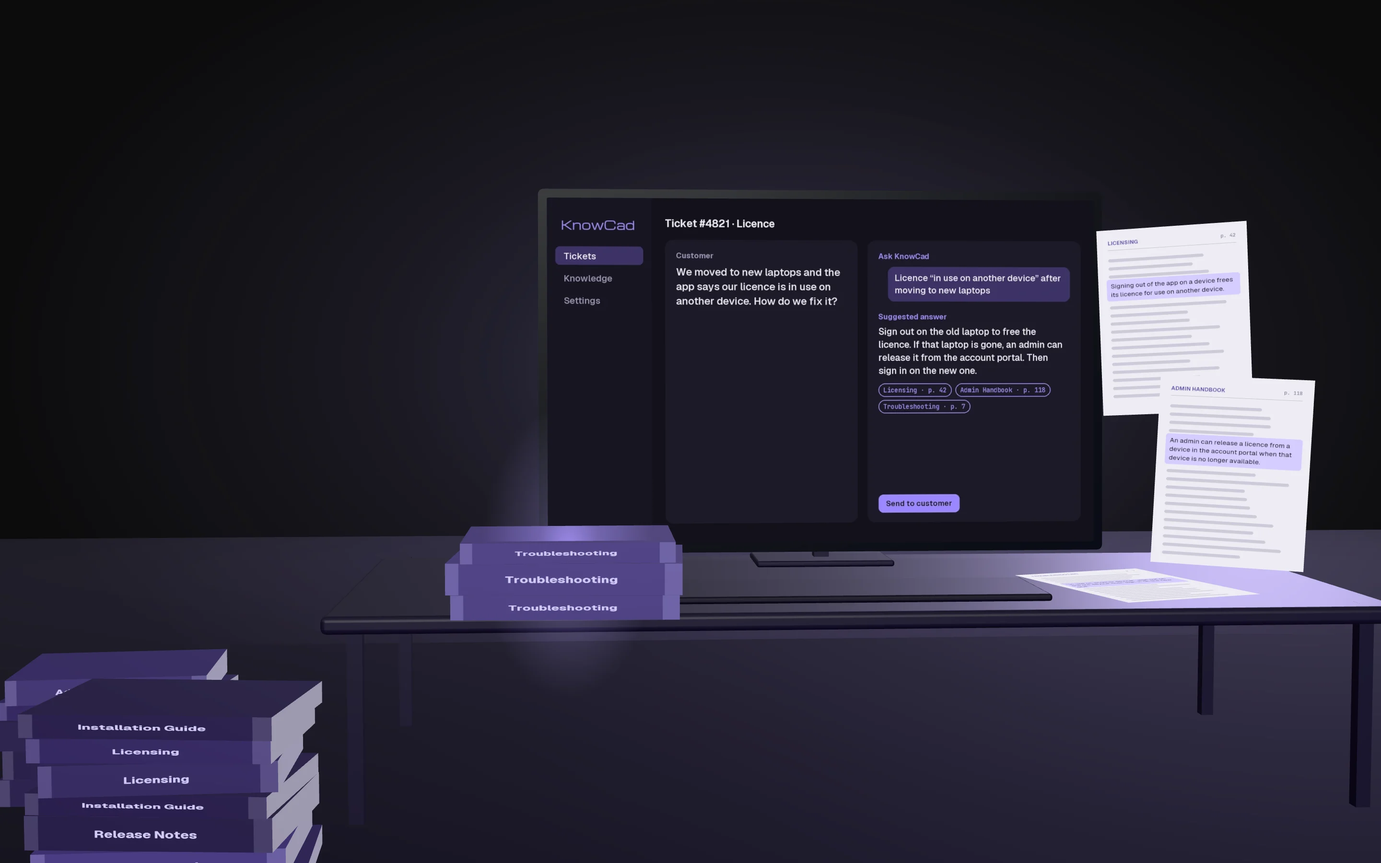
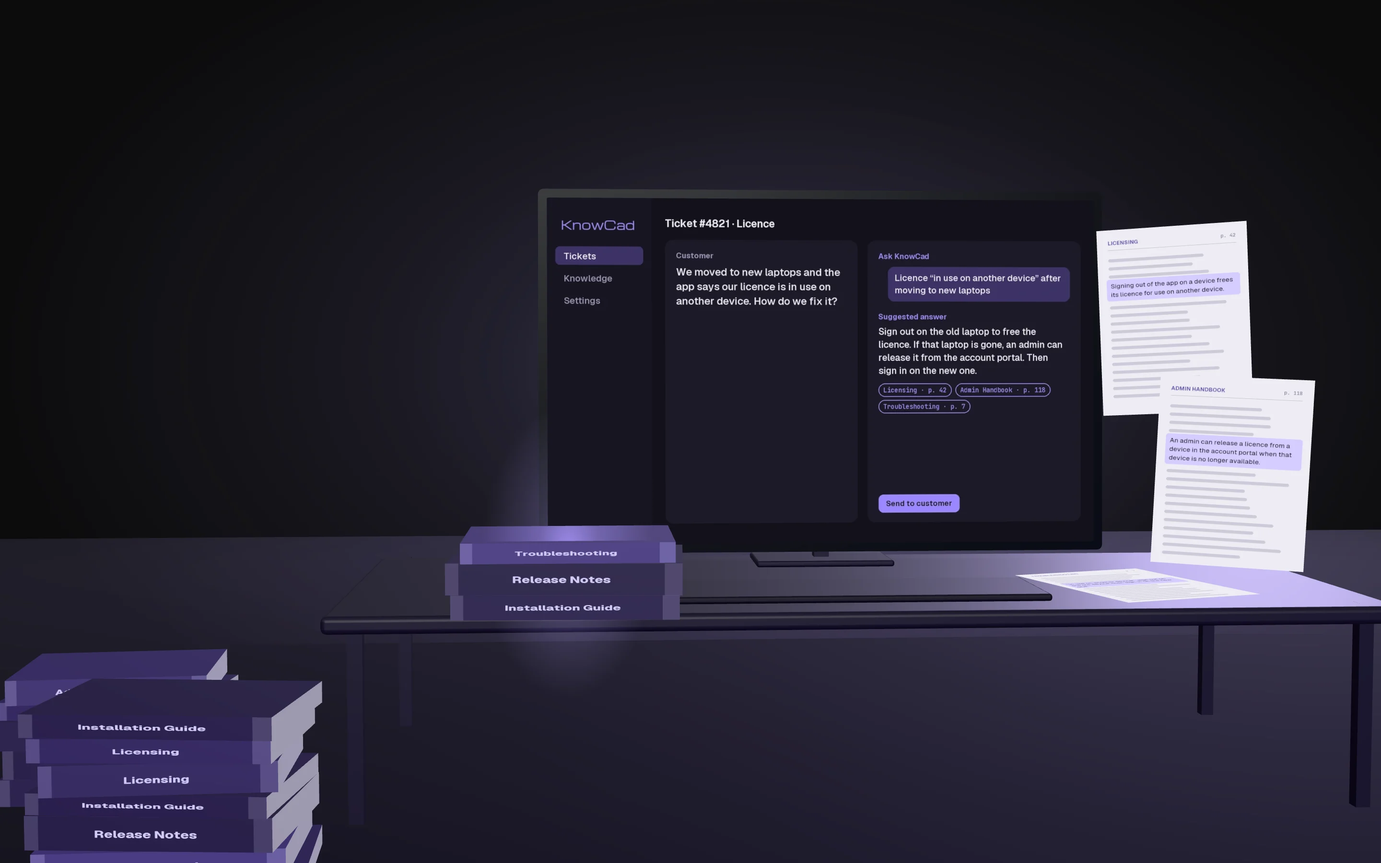
The small 3D leftovers: all six challenge cards on a phone, a card played mid-flight keeps flying, KnowCad's phone pages stay clear of the camera, the newspaper glide ends with the whole page on screen
- Boss Breaker: a phone shows all six challenge cards, held above the health bar where the words' shade does not cover them; each played card keeps its own flight, so rapid Attacks never snap one back
- KnowCad: on a phone the loose pages stay between the shelves and go once the camera is deep in the aisle (it backs out past them for its long view of the desk); the desk stack has no second Troubleshooting; a hidden source page no longer catches a tap
- MEANT: the glide into the newspaper stops where the whole page just fills the screen, for any screen shape (it was a fixed distance: much too close on a phone)
- fewer objects made every frame in the rooms; the Boss Breaker and KnowCad stills re-rendered

Changed region(s): [[0.3125, 0.6222, 0.5, 0.7467]]

diff --git a/js/3d/chapters/boss-breaker.js b/js/3d/chapters/boss-breaker.js
@@ -23,7 +23,7 @@ const DISPLAY_H = (DISPLAY.w * (DISPLAY_CROP[3] - DISPLAY_CROP[1])) / (DISPLAY_C
 
 export async function mount({ world, stage, section, origin, form }) {
   const desk = form === 'desk';
-  const nCards = desk ? 6 : 3;
+  const nCards = 6;
   const names = ['bx-display', 'bx-phone', 'bx-dragon', ...(desk ? ['bx-leaderboard'] : []), ...Array.from({ length: nCards }, (_, i) => `bx-card-${i + 1}`)];
   const tex = Object.fromEntries(await Promise.all(names.map(async (n) => [n, await loadTexture(`assets/3d/${n}.webp`)])));
 
@@ -79,18 +79,25 @@ export async function mount({ world, stage, section, origin, form }) {
   await nextFrame();
   // the hand: the six challenges as cards, held in a loose arc low in front, the next to play on top
   const CARD = { w: 1.05, h: 1.05 * (720 / 512) };
-  const pivot = new THREE.Vector3(desk ? 1.6 : 0.4, FLOOR - 0.3, 1.2);
+  // (on a phone the words and their shade fill the lower half of the screen, so the hand is held up above the
+  // health bar, top right, where the camera shows it clear of them)
+  const pivot = desk ? new THREE.Vector3(1.6, FLOOR - 0.3, 1.2) : new THREE.Vector3(2.6, 7.1, -4);
   let front = 0;
   const cards = Array.from({ length: nCards }, (_, i) => {
     const c = card(CARD.w, CARD.h, tex[`bx-card-${i + 1}`], null, { color: 0x121622 });
     group.add(c);
-    return { c, pos: new THREE.Vector3(), rz: 0, ready: false };
+    // a played card's own flight (t runs 0..1), so a card still in the air keeps flying when the next is played;
+    // r0 is how it was turned when it left, so a card played again mid-flight turns on from there
+    return { c, pos: new THREE.Vector3(), want: new THREE.Vector3(), rz: 0, ready: false, throwT: 1, from: new THREE.Vector3(), r0: [0, 0, 0] };
   });
-  const handAt = (i, open) => {
+  // card i's place in the hand, into `out`; returns its turn
+  const handAt = (i, open, out) => {
     const h = handPose(i, nCards, front, open);
     const r = 2.0;
-    return { pos: new THREE.Vector3(pivot.x - Math.sin(h.a) * r, pivot.y + Math.cos(h.a) * r + h.lift, pivot.z + h.z), rz: h.a };
+    out.set(pivot.x - Math.sin(h.a) * r, pivot.y + Math.cos(h.a) * r + h.lift, pivot.z + h.z);
+    return h.a;
   };
+  const hudAt = new THREE.Vector3();
 
   await nextFrame();
   // the leaderboard on its post, and a bar of each player's damage in front of it
@@ -116,15 +123,16 @@ export async function mount({ world, stage, section, origin, form }) {
     live: section.querySelector('[data-hp-live]'), down: section.querySelector('[data-defeated]'),
   };
   const hpSpring = new Spring(START_HP, { stiffness: 140, damping: 20 });
-  let hits = 0, local = -1, shownHp = -1, throwN = 0, throwT = 1, hitTimer = 0, wasVisible = false, throwFrom = new THREE.Vector3();
+  let hits = 0, local = -1, shownHp = -1, hitTimer = 0, wasVisible = false;
   const fillEnd = () => new THREE.Vector3(fill.position.x + (BAR.len * hpSpring.value) / START_HP, BAR.at[1], BAR.at[2] + 0.3);
   function hit() {
     if (bossHp(local, hits) <= 0) return;
     hits += 1;
-    throwN = front;
-    throwFrom = cards[front].pos.clone();   // where it left the hand
+    const cd = cards[front];
+    cd.from.copy(cd.c.position);            // where it left the hand (or the air)
+    cd.r0 = [cd.c.rotation.x, cd.c.rotation.y, cd.c.rotation.z];
+    cd.throwT = 0;
     front = (front + 1) % nCards;           // the next comes to the front while it flies
-    throwT = 0;
     world.shake(18);
     hud.hit.textContent = '−350';
     clearTimeout(hitTimer);
@@ -167,7 +175,7 @@ export async function mount({ world, stage, section, origin, form }) {
       fill.scale.x = Math.max(0.0001, hpSpring.value / START_HP);
       // the HP readout sits just above the middle of the bar, wherever the camera has it on screen; the pin it
       // lives in is stuck to the top of the screen while the chapter is pinned, and scrolls in and out with it
-      const p = new THREE.Vector3(BAR.at[0], BAR.at[1] + 0.3, BAR.at[2]).add(origin).project(f.camera);
+      const p = hudAt.set(BAR.at[0], BAR.at[1] + 0.3, BAR.at[2]).add(origin).project(f.camera);
       const secTop = -t * f.unit;
       const pinTop = secTop > 0 ? secTop : Math.min(0, secTop + 0.6 * f.unit);
       hud.box.style.transform = `translate(${((p.x + 1) / 2) * innerWidth}px, ${((1 - p.y) / 2) * f.vh - pinTop}px) translate(-50%, -100%)`;
@@ -175,28 +183,29 @@ export async function mount({ world, stage, section, origin, form }) {
       bars.forEach((b) => { b.scale.y = Math.max(0.001, st.bars); });
       // the hand opens with the scroll; the played card flies to the end of the bar and back to the back of the hand,
       // and the others slide to their new places
-      if (throwT < 1) { throwT = Math.min(1, throwT + f.dt / 620); busy = true; }
       const ease = 1 - Math.exp(-f.dt / 90);
       cards.forEach((cd, i) => {
-        const want = handAt(i, st.cards);
-        if (!cd.ready) { cd.pos.copy(want.pos); cd.rz = want.rz; cd.ready = true; }
-        if (cd.pos.distanceToSquared(want.pos) > 1e-7 || Math.abs(cd.rz - want.rz) > 1e-4) {
-          cd.pos.lerp(want.pos, ease);
-          cd.rz += (want.rz - cd.rz) * ease;
+        const wantRz = handAt(i, st.cards, cd.want);
+        if (!cd.ready) { cd.pos.copy(cd.want); cd.rz = wantRz; cd.ready = true; }
+        if (cd.pos.distanceToSquared(cd.want) > 1e-7 || Math.abs(cd.rz - wantRz) > 1e-4) {
+          cd.pos.lerp(cd.want, ease);
+          cd.rz += (wantRz - cd.rz) * ease;
           busy = true;
         }
         cd.c.position.copy(cd.pos);
         cd.c.rotation.set(-0.3, 0, cd.rz);
         cd.c.visible = st.cards > 0.02 || i === front;
-        if (i === throwN && throwT < 1) {
+        if (cd.throwT < 1) {
+          cd.throwT = Math.min(1, cd.throwT + f.dt / 620);
+          busy = true;
           const end = fillEnd();
-          if (throwT < 0.5) {
-            const k = easeInOut(throwT * 2);
-            cd.c.position.copy(bez(throwFrom, throwFrom.clone().lerp(end, 0.5).add(new THREE.Vector3(0, 2.5, 1.5)), end, k));
-            cd.c.rotation.set(-0.3 + k * 0.4, k * 3, cd.rz * (1 - k));
+          if (cd.throwT < 0.5) {
+            const k = easeInOut(cd.throwT * 2);
+            cd.c.position.copy(bez(cd.from, cd.from.clone().lerp(end, 0.5).add(new THREE.Vector3(0, 2.5, 1.5)), end, k));
+            cd.c.rotation.set(lerp(cd.r0[0], 0.1, k), lerp(cd.r0[1], 3, k), lerp(cd.r0[2], 0, k));
           } else {
-            const k = easeInOut((throwT - 0.5) * 2);
-            cd.c.position.copy(bez(end, end.clone().lerp(want.pos, 0.5).add(new THREE.Vector3(0, 1.5, 1)), want.pos, k));
+            const k = easeInOut((cd.throwT - 0.5) * 2);
+            cd.c.position.copy(bez(end, end.clone().lerp(cd.want, 0.5).add(new THREE.Vector3(0, 1.5, 1)), cd.want, k));
             cd.c.rotation.set(-0.3 + (1 - k) * 0.4, (1 - k) * 3, cd.rz * k);
           }
           cd.pos.copy(cd.c.position);   // the hand takes it back from where it is

diff --git a/index.html b/index.html
@@ -24,7 +24,7 @@
   <script>for(const t of['pageswap','pagereveal'])addEventListener(t,(e)=>{const a=t==='pageswap'?e.activation:window.navigation&&navigation.activation;if(e.viewTransition&&e.viewTransition.types&&a&&a.navigationType==='traverse')e.viewTransition.types.add('back')})</script>
   <script src="js/script.js?v=829277ce" defer></script>
   <script src="js/analytics.js?v=915544e1" defer></script>
-  <script type="importmap">{"imports":{"./js/3d/awards-timeline.js":"./js/3d/awards-timeline.js?v=8ae7430a","./js/3d/awards.js":"./js/3d/awards.js?v=85941e3e","./js/3d/board.js":"./js/3d/board.js?v=65edb9bc","./js/3d/chapters/bcb-timeline.js":"./js/3d/chapters/bcb-timeline.js?v=956fa94d","./js/3d/chapters/better-call-bhai.js":"./js/3d/chapters/better-call-bhai.js?v=ddf2d81e","./js/3d/chapters/boss-breaker.js":"./js/3d/chapters/boss-breaker.js?v=39046857","./js/3d/chapters/boss-timeline.js":"./js/3d/chapters/boss-timeline.js?v=19648e24","./js/3d/chapters/knowcad-timeline.js":"./js/3d/chapters/knowcad-timeline.js?v=e50ef3ca","./js/3d/chapters/knowcad.js":"./js/3d/chapters/knowcad.js?v=a5bb4738","./js/3d/chapters/meant-timeline.js":"./js/3d/chapters/meant-timeline.js?v=5269b19b","./js/3d/chapters/meant.js":"./js/3d/chapters/meant.js?v=66a97dda","./js/3d/chapters/signalbridge-timeline.js":"./js/3d/chapters/signalbridge-timeline.js?v=26504e75","./js/3d/chapters/signalbridge.js":"./js/3d/chapters/signalbridge.js?v=4f93d42e","./js/3d/devices.js":"./js/3d/devices.js?v=086bac31","./js/3d/ending.js":"./js/3d/ending.js?v=22bb6a02","./js/3d/flap.js":"./js/3d/flap.js?v=e53ccadb","./js/3d/hero.js":"./js/3d/hero.js?v=056bcd76","./js/3d/paths.js":"./js/3d/paths.js?v=9408f81c","./js/3d/stage.js":"./js/3d/stage.js?v=98732830","./js/3d/tap.js":"./js/3d/tap.js?v=58a4c4f2","./js/3d/textures.js":"./js/3d/textures.js?v=d305978a","./js/3d/world.js":"./js/3d/world.js?v=38d30464","./js/home.js":"./js/home.js?v=69c85023","./js/lib/capability.js":"./js/lib/capability.js?v=fd53f0ed","./js/lib/fit.js":"./js/lib/fit.js?v=d1ad86dd","./js/lib/glide.js":"./js/lib/glide.js?v=2fdf85be","./js/lib/motion.js":"./js/lib/motion.js?v=d570a3ea","./js/lib/path.js":"./js/lib/path.js?v=3d503fb9","./js/lib/physics.js":"./js/lib/physics.js?v=d11d19f2","./js/lib/scatter.js":"./js/lib/scatter.js?v=32949847","./js/lib/scrollnav.js":"./js/lib/scrollnav.js?v=d7dd1bef","./js/lib/ticker.js":"./js/lib/ticker.js?v=bb5c4515","./js/lib/watchdog.js":"./js/lib/watchdog.js?v=7e99068e","./js/vendor/lenis/lenis.min.js":"./js/vendor/lenis/lenis.min.js?v=c340ac3c","./js/vendor/three/addons/environments/RoomEnvironment.js":"./js/vendor/three/addons/environments/RoomEnvironment.js?v=1592f672","three/addons/environments/RoomEnvironment.js":"./js/vendor/three/addons/environments/RoomEnvironment.js?v=1592f672","./js/vendor/three/addons/geometries/RoundedBoxGeometry.js":"./js/vendor/three/addons/geometries/RoundedBoxGeometry.js?v=57e49d98","three/addons/geometries/RoundedBoxGeometry.js":"./js/vendor/three/addons/geometries/RoundedBoxGeometry.js?v=57e49d98","./js/vendor/three/three.module.min.js":"./js/vendor/three/three.module.min.js?v=8b618bd9","three":"./js/vendor/three/three.module.min.js?v=8b618bd9","lenis":"./js/vendor/lenis/lenis.min.js?v=c340ac3c"}}</script>
+  <script type="importmap">{"imports":{"./js/3d/awards-timeline.js":"./js/3d/awards-timeline.js?v=8ae7430a","./js/3d/awards.js":"./js/3d/awards.js?v=85941e3e","./js/3d/board.js":"./js/3d/board.js?v=65edb9bc","./js/3d/chapters/bcb-timeline.js":"./js/3d/chapters/bcb-timeline.js?v=956fa94d","./js/3d/chapters/better-call-bhai.js":"./js/3d/chapters/better-call-bhai.js?v=ddf2d81e","./js/3d/chapters/boss-breaker.js":"./js/3d/chapters/boss-breaker.js?v=fc21bd77","./js/3d/chapters/boss-timeline.js":"./js/3d/chapters/boss-timeline.js?v=19648e24","./js/3d/chapters/knowcad-timeline.js":"./js/3d/chapters/knowcad-timeline.js?v=e50ef3ca","./js/3d/chapters/knowcad.js":"./js/3d/chapters/knowcad.js?v=12688bcc","./js/3d/chapters/meant-timeline.js":"./js/3d/chapters/meant-timeline.js?v=5269b19b","./js/3d/chapters/meant.js":"./js/3d/chapters/meant.js?v=bf981b61","./js/3d/chapters/signalbridge-timeline.js":"./js/3d/chapters/signalbridge-timeline.js?v=26504e75","./js/3d/chapters/signalbridge.js":"./js/3d/chapters/signalbridge.js?v=24ff4a40","./js/3d/devices.js":"./js/3d/devices.js?v=086bac31","./js/3d/ending.js":"./js/3d/ending.js?v=22bb6a02","./js/3d/flap.js":"./js/3d/flap.js?v=e53ccadb","./js/3d/hero.js":"./js/3d/hero.js?v=056bcd76","./js/3d/paths.js":"./js/3d/paths.js?v=9408f81c","./js/3d/stage.js":"./js/3d/stage.js?v=98732830","./js/3d/tap.js":"./js/3d/tap.js?v=58a4c4f2","./js/3d/textures.js":"./js/3d/textures.js?v=7a596ac3","./js/3d/world.js":"./js/3d/world.js?v=871da182","./js/home.js":"./js/home.js?v=69c85023","./js/lib/capability.js":"./js/lib/capability.js?v=fd53f0ed","./js/lib/fit.js":"./js/lib/fit.js?v=d1ad86dd","./js/lib/glide.js":"./js/lib/glide.js?v=51b16fde","./js/lib/motion.js":"./js/lib/motion.js?v=d570a3ea","./js/lib/path.js":"./js/lib/path.js?v=3d503fb9","./js/lib/physics.js":"./js/lib/physics.js?v=d11d19f2","./js/lib/scatter.js":"./js/lib/scatter.js?v=32949847","./js/lib/scrollnav.js":"./js/lib/scrollnav.js?v=d7dd1bef","./js/lib/ticker.js":"./js/lib/ticker.js?v=bb5c4515","./js/lib/watchdog.js":"./js/lib/watchdog.js?v=7e99068e","./js/vendor/lenis/lenis.min.js":"./js/vendor/lenis/lenis.min.js?v=c340ac3c","./js/vendor/three/addons/environments/RoomEnvironment.js":"./js/vendor/three/addons/environments/RoomEnvironment.js?v=1592f672","three/addons/environments/RoomEnvironment.js":"./js/vendor/three/addons/environments/RoomEnvironment.js?v=1592f672","./js/vendor/three/addons/geometries/RoundedBoxGeometry.js":"./js/vendor/three/addons/geometries/RoundedBoxGeometry.js?v=57e49d98","three/addons/geometries/RoundedBoxGeometry.js":"./js/vendor/three/addons/geometries/RoundedBoxGeometry.js?v=57e49d98","./js/vendor/three/three.module.min.js":"./js/vendor/three/three.module.min.js?v=8b618bd9","three":"./js/vendor/three/three.module.min.js?v=8b618bd9","lenis":"./js/vendor/lenis/lenis.min.js?v=c340ac3c"}}</script>
   <script type="module" src="./js/home.js?v=69c85023"></script>
   <script type="application/ld+json">{"@context": "https://schema.org", "@type": "Person", "name": "Mruthulan Senthil Nathan", "alternateName": ["Mruthulan", "Senthil Nathan Mruthulan"], "url": "https://mruthulan.com/", "jobTitle": "Software developer and IT student", "affiliation": {"@type": "CollegeOrUniversity", "name": "Singapore Polytechnic"}, "address": {"@type": "PostalAddress", "addressCountry": "SG"}, "sameAs": ["https://www.linkedin.com/in/mruthulan/", "https://github.com/mru34"]}</script>
 </head>

diff --git a/js/3d/chapters/knowcad.js b/js/3d/chapters/knowcad.js
@@ -119,6 +119,8 @@ export async function mount({ world, stage, section, origin, form }) {
     books.find((b) => b.stack && b.top),
   ];
   [1, 2, 4].forEach((title, i) => { matched[i].title = title; });
+  // under it on the desk, two other manuals, never a second Troubleshooting (nor the two from the shelves)
+  books.filter((b) => b.stack && !b.top).forEach((b, k) => { b.title = [0, 3][k % 2]; });   // Installation Guide, Release Notes
 
   const pagesMat = new THREE.MeshStandardMaterial({ color: 0xd9d5e6, roughness: 0.9 });
   const spineMat = new THREE.MeshStandardMaterial({ map: tex['kc-spines'], roughness: 0.65 });
@@ -210,7 +212,9 @@ export async function mount({ world, stage, section, origin, form }) {
     return m;
   });
   const r2 = mulberry32(29);
-  const loose = scatter(nLoose, 23, { x: [-4.2, 4.2], y: [FLOOR + 0.6, 4], z: [-19, -1] }, 1.6).map(([x, y, z], i) => ({
+  // (a phone has half the shelf units: its pages stay between them, not in the open by the desk, where the camera
+  // passes close as it comes down to the desk)
+  const loose = scatter(nLoose, 23, { x: [-4.2, 4.2], y: [FLOOR + 0.6, 4], z: desk ? [-19, -1] : [-15, -1] }, 1.6).map(([x, y, z], i) => ({
     mesh: looseMeshes[i % 4], k: Math.floor(i / 4), pos: new THREE.Vector3(Math.abs(x) < 1.6 ? Math.sign(x || 1) * (1.6 + Math.abs(x) * 0.8) : x, y, z),
     quat: new THREE.Quaternion().setFromEuler(new THREE.Euler((r2() - 0.5) * 0.7, (r2() - 0.5) * 1.3, (r2() - 0.5) * 0.4)),
     off: new THREE.Vector3(), aim: new THREE.Vector3(),
@@ -240,7 +244,8 @@ export async function mount({ world, stage, section, origin, form }) {
   let local = -1;
   const offTap = onTap(pin, (e) => {
     if (e.target.closest('a, button')) return;
-    const hit = world.ray(e.clientX, e.clientY).intersectObjects([...pages.map((p) => p.m), ...shelves], false)[0];
+    // (a source page still in its manual is hidden, and must not catch the tap meant for the manual)
+    const hit = world.ray(e.clientX, e.clientY).intersectObjects([...pages.filter((p) => p.m.visible).map((p) => p.m), ...shelves], false)[0];
     if (!hit) return;
     if (hit.object.userData.page !== undefined) {
       if (kcState(local).pull < 1) return;
@@ -285,7 +290,7 @@ export async function mount({ world, stage, section, origin, form }) {
     });
   }
 
-  const tmp = new THREE.Object3D(), face = new THREE.Object3D();
+  const tmp = new THREE.Object3D(), face = new THREE.Object3D(), camL = new THREE.Vector3();
   const debug = {
     parted: () => Math.max(0, ...loose.map((s) => s.off.length())),
     state: () => ({ ...kcState(local) }),
@@ -326,12 +331,12 @@ export async function mount({ world, stage, section, origin, form }) {
       [st.ticket, st.search, st.answer].forEach((o, k) => { overlays[k].material.opacity = o; overlays[k].visible = o > 0.001; });
       lights.forEach((g) => { g.material.opacity = 0.45 * st.light; g.visible = st.light > 0.001; });
       let busy = false;
-      const camLocal = group.worldToLocal(f.camera.position.clone());
+      const camLocal = group.worldToLocal(camL.copy(f.camera.position));
       pages.forEach((p) => {
         busy = p.fwd.step(f.dt) || busy;
         p.m.visible = st.pull > 0.01;
         if (!p.m.visible) return;
-        tmp.position.copy(bez(p.from, p.ctrl, p.rest, st.pull));
+        bez(p.from, p.ctrl, p.rest, st.pull, tmp.position);
         tmp.quaternion.copy(p.fromQ).slerp(p.restQ, ramp(st.pull, p.turnFrom, 1));
         if (p.fwd.value > 0.001) {
           face.position.copy(tmp.position);
@@ -350,7 +355,11 @@ export async function mount({ world, stage, section, origin, form }) {
         b.mesh.instanceMatrix.needsUpdate = true;
         if (s.target === 0 && s.value < 0.001) pulls.delete(b);
       }
-      aimAway(f);
+      // a phone's camera backs out down the aisle for its long view of the desk, and the loose pages would brush
+      // the edges of that view: they go once the camera is deep in the aisle, where none of them is on screen
+      const pagesOut = desk || t < 0.15;
+      looseMeshes.forEach((m) => { m.visible = pagesOut; });
+      if (pagesOut) aimAway(f);
       const k = Math.min(1, f.dt / 120);
       let moved = false;
       loose.forEach((s) => {

diff --git a/js/3d/chapters/meant.js b/js/3d/chapters/meant.js
@@ -14,6 +14,7 @@ import { lerp, Spring } from '../../lib/motion.js';
 import { mulberry32 } from '../../lib/scatter.js';
 import { mtState, REPLIES } from './meant-timeline.js';
 import { FOV } from '../stage.js';
+import { fitNear } from '../../lib/glide.js';
 import { onTap } from '../tap.js';
 
 // the reply tiles in the 1600 x 1000 tablet capture: must match design/build_3d_assets.py (tested)
@@ -140,7 +141,7 @@ export async function mount({ world, stage, section, origin, form }) {
     const lift = new Spring(0, { stiffness: 160, damping: 20 });
     group.add(c);
     c.traverse((o) => { if (o.isMesh) o.userData.reply = i; });
-    return { c, from, to, scaleOnTablet, lift };
+    return { c, from, to, scaleOnTablet, lift, rest: new THREE.Vector3() };
   });
   await nextFrame();
 
@@ -244,7 +245,13 @@ export async function mount({ world, stage, section, origin, form }) {
         if (t !== last) { last = t; still = 0; } else if (++still >= 3) { clearInterval(watch); r('stalled'); }
       }, 250);
     });
-    const why = await Promise.race([world.glideTo(news.top.getWorldPosition(new THREE.Vector3()), 600), stalled]);
+    // the glide ends with the whole page just filling the screen, whatever its shape and the angle it is seen at
+    const to = news.top.getWorldPosition(new THREE.Vector3());
+    news.top.geometry.computeBoundingBox();
+    const { min, max } = news.top.geometry.boundingBox;
+    const corners = [0, 1, 2, 3, 4, 5, 6, 7].map((i) => new THREE.Vector3(i & 1 ? max.x : min.x, i & 2 ? max.y : min.y, i & 4 ? max.z : min.z).applyMatrix4(news.top.matrixWorld).toArray());
+    const near = fitNear(corners, to.toArray(), stage.camera.position.toArray(), FOV, stage.view.w / stage.view.h);
+    const why = await Promise.race([world.glideTo(to, 600, near), stalled]);
     clearInterval(watch);
     if (id !== pressId || why === 'restored') return;   // the visitor came back to this page meanwhile
     location.href = pressLink.href;
@@ -355,7 +362,9 @@ export async function mount({ world, stage, section, origin, form }) {
       tiles.forEach((tile, i) => {
         tile.lift.target = i === hovered || i === focused ? 1 : 0;
         busy = tile.lift.step(f.dt) || busy;
-        const rest = tile.from.clone().lerp(tile.to, st.rise).add(new THREE.Vector3(0, tile.lift.value * 0.15, tile.lift.value * 0.15));
+        const rest = tile.rest.copy(tile.from).lerp(tile.to, st.rise);
+        rest.y += tile.lift.value * 0.15;
+        rest.z += tile.lift.value * 0.15;
         const s = lerp(tile.scaleOnTablet, 1, st.rise) * (1 + tile.lift.value * 0.06);
         tile.c.visible = i !== shown;
         if (i === flying) {

diff --git a/js/3d/world.js b/js/3d/world.js
@@ -16,7 +16,7 @@ import { KEYS, ORIGINS, COLORS } from './paths.js';
 import { glow, texturesOf } from './textures.js';
 
 const BG = 0x0c0c0d;
-const GLIDE_NEAR = 2.2;   // how close the press glide stops to the paper (decimetres)
+const GLIDE_NEAR = 2.2;   // how close a glide stops to its point (decimetres), unless it is told
 const nextFrame = () => new Promise((r) => requestAnimationFrame(() => r()));
 
 export function createWorld(stage, { sections, form }) {
@@ -179,12 +179,13 @@ export function createWorld(stage, { sections, form }) {
     // a section's top, in CSS pixels from the top of the screen, from the cached layout (no layout read)
     top(name) { const i = sections.findIndex((x) => x.name === name); return i < 0 ? 0 : spans[i][0] - scrollY; },
     shake(a) { shakeS.velocity += a; stage.invalidate(); },
-    // the camera glides toward `point` over `ms` and holds there; the scroll (or coming back to the page) takes it back
+    // the camera glides toward `point` over `ms`, stopping `near` from it, and holds there; the scroll (or coming back
+    // to the page) takes it back
     // it resolves with how it ended: 'done', 'scrolled' (the visitor scrolled away), 'restored' (the page came back
     // from the browser's cache) or 'replaced' (another glide started)
-    glideTo(point, ms = 600) {
+    glideTo(point, ms = 600, near = GLIDE_NEAR) {
       if (glide) glide.resolve('replaced');
-      return new Promise((resolve) => { glide = { to: point.toArray(), t: 0, ms, y: scrollY, resolve, done: false }; stage.invalidate(); });
+      return new Promise((resolve) => { glide = { to: point.toArray(), near, t: 0, ms, y: scrollY, resolve, done: false }; stage.invalidate(); });
     },
     endGlide(why = 'ended') { if (glide) { glide.resolve(why); glide = null; stage.invalidate(); } },
     glideT: () => (glide ? glide.t : null),   // how far the glide is (0..1), or null when there is none
@@ -268,7 +269,7 @@ export function createWorld(stage, { sections, form }) {
         if (Math.abs(y - glide.y) > vh * 0.25) api.endGlide('scrolled');   // a smooth scroll's last few pixels do not count
         else {
           glide.t = Math.min(1, glide.t + (dt || 16) / glide.ms);
-          const g = glidePose(camPos.toArray(), camAt.toArray(), glide.to, glide.t, GLIDE_NEAR);
+          const g = glidePose(camPos.toArray(), camAt.toArray(), glide.to, glide.t, glide.near);
           camPos.fromArray(g.pos);
           camAt.fromArray(g.at);
           if (glide.t < 1) busy = true;

diff --git a/tests/js/glide.test.js b/tests/js/glide.test.js
@@ -1,6 +1,6 @@
 import test from 'node:test';
 import assert from 'node:assert/strict';
-import { glidePose } from '../../js/lib/glide.js';
+import { glidePose, fitNear } from '../../js/lib/glide.js';
 
 const close = (a, b) => a.every((v, i) => Math.abs(v - b[i]) < 1e-9);
 
@@ -18,4 +18,18 @@ test('it eases: a quarter of the time covers less than a quarter of the way', ()
   const pos = [0, 0, 10], to = [0, 0, 0];
   const q = glidePose(pos, [0, 0, 0], to, 0.25, 2);
   assert.ok(q.pos[2] > 10 - 0.25 * 8);
+});
+
+test('fitNear: how far from a shape the camera stops so the whole of it just fills the screen', () => {
+  // a 2 x 1 card facing a camera on +z; a 90° field of view (tan 45° = 1) on a screen twice as wide as tall
+  const card = [[-1, -0.5, 0], [1, -0.5, 0], [-1, 0.5, 0], [1, 0.5, 0]];
+  assert.ok(Math.abs(fitNear(card, [0, 0, 0], [0, 0, 10], 90, 2, 1) - 0.5) < 1e-9, 'width and height both fit at 0.5');
+  // on a tall screen (aspect 0.5) the width decides: 1 / (1 x 0.5) = 2, and the margin keeps an edge clear
+  assert.ok(Math.abs(fitNear(card, [0, 0, 0], [0, 0, 10], 90, 0.5, 1) - 2) < 1e-9);
+  assert.ok(Math.abs(fitNear(card, [0, 0, 0], [0, 0, 10], 90, 0.5, 1.1) - 2.2) < 1e-9);
+  // seen from straight above, a card lying flat (in x, z) is the same as one facing the camera
+  const flat = [[-1, 0, -0.5], [1, 0, -0.5], [-1, 0, 0.5], [1, 0, 0.5]];
+  assert.ok(Math.abs(fitNear(flat, [0, 0, 0], [0, 10, 0.001], 90, 2, 1) - 0.5) < 1e-3);
+  // seen at a slant, the near edge is closer and looks bigger: further than its flat size alone would say
+  assert.ok(fitNear(flat, [0, 0, 0], [0, 5, 5], 90, 0.5, 1) > 1);
 });

diff --git a/js/lib/glide.js b/js/lib/glide.js
@@ -7,3 +7,25 @@ export function glidePose(pos, at, to, t, near) {
   const end = d.map((v, i) => to[i] + (v / len) * near);
   return { pos: pos.map((v, i) => v + (end[i] - v) * e), at: at.map((v, i) => v + (to[i] - v) * e) };
 }
+
+// How far from `to` the glide should stop so that a shape (its corners, in the same space) just fills the screen:
+// the camera comes from `from`, looks at `to`, sees `fovDeg` from top to bottom and is `aspect` times as wide as
+// tall; `margin` keeps a little room around the shape. A corner nearer the camera looks bigger, so each counts at
+// its own depth along the line.
+export function fitNear(corners, to, from, fovDeg, aspect, margin = 1.08) {
+  const d = [from[0] - to[0], from[1] - to[1], from[2] - to[2]];
+  const len = Math.hypot(...d) || 1;
+  const z = d.map((v) => v / len);
+  let r = [-z[2], 0, z[0]];                     // across the screen: the line crossed with up (0, 1, 0)
+  const rl = Math.hypot(...r);
+  r = rl > 1e-6 ? r.map((v) => v / rl) : [1, 0, 0];
+  const u = [z[1] * r[2] - z[2] * r[1], z[2] * r[0] - z[0] * r[2], z[0] * r[1] - z[1] * r[0]];
+  const tanY = Math.tan((fovDeg * Math.PI) / 360), tanX = tanY * aspect;
+  const dot = (a, b) => a[0] * b[0] + a[1] * b[1] + a[2] * b[2];
+  let near = 0;
+  for (const c of corners) {
+    const v = [c[0] - to[0], c[1] - to[1], c[2] - to[2]];
+    near = Math.max(near, dot(v, z) + margin * Math.max(Math.abs(dot(v, r)) / tanX, Math.abs(dot(v, u)) / tanY));
+  }
+  return near;
+}

diff --git a/js/3d/chapters/signalbridge.js b/js/3d/chapters/signalbridge.js
@@ -102,6 +102,8 @@ export async function mount({ world, stage, section, origin, form }) {
     }
   });
 
+  const from = new THREE.Vector3(), ctrl = new THREE.Vector3(), at = new THREE.Vector3();   // the message's path, every frame
+  const UP_TO_GATE = new THREE.Vector3(0, 0.5, 0.3), UP_TO_LAPTOP = new THREE.Vector3(0, 0.4, 0.5);
   return {
     group,
     debug: { anchors: { laptopScreen: E.clone().add(origin), phoneScreen: S.clone().add(origin), gate: G.clone().add(origin) } },
@@ -121,8 +123,8 @@ export async function mount({ world, stage, section, origin, form }) {
       message.visible = st.lift > 0 && st.toLaptop < 1;
       if (message.visible) {
         const pos = st.toGate < 1
-          ? bez(S.clone().lerp(S1, st.lift), S1.clone().lerp(Gm, 0.5).add(new THREE.Vector3(0, 0.5, 0.3)), Gm, st.toGate)
-          : bez(Gm, Gm.clone().lerp(E, 0.5).add(new THREE.Vector3(0, 0.4, 0.5)), E, st.toLaptop);
+          ? bez(from.copy(S).lerp(S1, st.lift), ctrl.copy(S1).lerp(Gm, 0.5).add(UP_TO_GATE), Gm, st.toGate, at)
+          : bez(Gm, ctrl.copy(Gm).lerp(E, 0.5).add(UP_TO_LAPTOP), E, st.toLaptop, at);
         // as wide as the bubble on the phone, then most of the card's width at the gate, then small into the laptop
         const atGate = (GATE.w * 0.8) / msgW;
         message.position.copy(pos);

diff --git a/js/3d/textures.js b/js/3d/textures.js
@@ -165,8 +165,8 @@ export function card(w, h, front, back, { color = 0x101a19 } = {}) {
   return g;
 }
 
-// a point on the quadratic Bézier from a through control c to b
-export const bez = (a, c, b, t) => new THREE.Vector3()
+// a point on the quadratic Bézier from a through control c to b (into `out`, which must not be a, c or b)
+export const bez = (a, c, b, t, out = new THREE.Vector3()) => out.set(0, 0, 0)
   .addScaledVector(a, (1 - t) ** 2).addScaledVector(c, 2 * (1 - t) * t).addScaledVector(b, t * t);
 
 // point a plane's texture at one box of an atlas: [u0, v0, u1, v1], v = 0 at the bottom of the image
